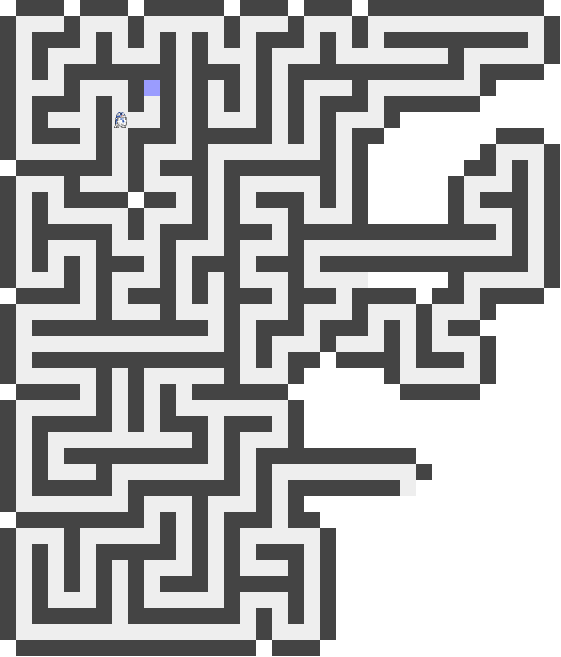
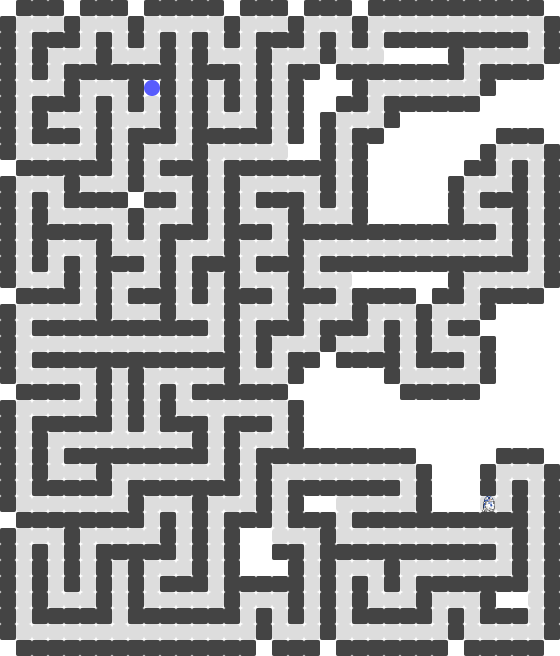
added autoplay to the maze game - day 15 of aoc 2019, updated screenshot

diff --git a/2019/day15/script.js b/2019/day15/script.js
@@ -1,9 +1,9 @@
-// Contains visuals and playable game of maze.
+// Contains visuals and a playable game of maze (set autoplay to false)
 
-let screen = [], root, timerHandle;
-let comp = new Computer();
-let size = 42, bot = {x:size/2,y:size/2};
-let colors = ['#fff', '#444', '#eee', '#99f']
+const frameDelay = 50, reverseMoves = [0, 2, 1, 4, 3], size = 42;
+let screen = [], root, actionLog = [], unresolvedPoints = [], autoplay = true,
+    comp = new Computer(), bot = {x:size/2,y:size/2}, botStart = {x:size/2,y:size/2},
+    ox = false, oxDm = false, oxTicks = 1;
 
 const prepareScreen = () => {
     root.empty();
@@ -15,7 +15,6 @@ const prepareScreen = () => {
             let div = $('<div>', {
                 id: 'tile_'+y*42+x,
                 css: {
-                    backgroundColor: colors[tileId],
                     left: x*16+'px',
                     top: y*16+'px',
                 }
@@ -27,32 +26,14 @@ const prepareScreen = () => {
     }
 }
 
-const exportScreen = () => {
-    let s = '';
-    let chars = ['#', '#', '.', 'O']
-    for (let y = 0; y < size; y++) {
-        let line = '';
-        for (let x = 0; x <= size; x++) {
-            let tileId = screen[y][x] || 0;
-            let char = chars[tileId];
-            if (x == bot.x && y == bot.y) {
-                char = '@';
-            }
-            line += char;
-        }
-        s += '"'+line + "\",\n";
-    }
-    console.log('['+s+']');
-}
+const getTileDivId = (x, y) => '#tile_'+y*42+x;
 
 const renderScreen = () => {
-    $('.tile').removeClass('bot');
     for (let y = 0; y < size; y++) {
-        let line = '';
         for (let x = 0; x <= size; x++) {
             let tileId = screen[y][x] || 0;
-            let div = $('#tile_'+y*42+x);
-            div.css('background-color', colors[tileId]);
+            let div = $(getTileDivId(x, y));
+            div.addClass('type_'+tileId);
             if (x == bot.x && y == bot.y) {
                 div.addClass('bot');
             }
@@ -68,48 +49,157 @@ const getPos = tileId => {
     }
 }
 
-const advanceWithCallback = (actionId, callback) => {
-    let result = comp.run([actionId]);
-
-    let x = bot.x, y = bot.y;
+const advanceByActionId = (p, actionId) => {
+    let x = p.x, y = p.y;
     if (actionId == 1) y--;
     if (actionId == 2) y++;
     if (actionId == 3) x--;
     if (actionId == 4) x++;
+    return {x: x, y: y};
+}
+
+const solvePart1 = () => {
+    let dm = generateDistanceMap(ox);
+    console.log('Steps from start to oxygen station', dm[botStart.y][botStart.x]);
+}
+
+const advanceWithCallback = (actionId, callback, markEmpty = true) => {
+    let result = comp.run([actionId]);
+    let p = advanceByActionId(bot, actionId);
 
     if (result.output[0] == 0) {
-        screen[y][x] = 1; // wall
+        screen[p.y][p.x] = 1; // wall
     }
     if (result.output[0] == 1) {
-        screen[y][x] = 2; // empty space
+        if (markEmpty) screen[p.y][p.x] = 2; // empty space
     }
     if (result.output[0] == 2) {
-        screen[y][x] = 3; // oxygen station
-        console.log('Found Oxygen Station!');
+        if (!ox) {
+            screen[p.y][p.x] = 3; // oxygen station
+            ox = p;
+            solvePart1();
+        }
     }
-    callback(result.output, x, y);
+    callback(result.output[0], p.x, p.y);
 }
 
 const thereAndBack = (actionId, backActionId) => {
+    let res;
     advanceWithCallback(actionId, (out, x, y) => {
-        if (out != 0) {
-            comp.run([backActionId]);
+        if (out != 0) comp.run([backActionId]);
+        res = out;
+    }, false)
+    return res;
+}
+
+const delayedGameTick = actionId => setTimeout(() => gameTick(actionId), frameDelay);
+const getScreenPoint = p => screen[p.y][p.x] || 0;
+
+const reduceUnresolvedPoints = (x, y) => {
+    let found = false;
+    unresolvedPoints.some((p, i) => {
+        if (unresolvedPoints[i].x == x && unresolvedPoints[i].y == y) {
+            found = i;
+            return true;
         }
     })
+    if (found) unresolvedPoints.splice(found, 1);
+}
+
+const canMoveTo = p => getScreenPoint(p) != 1;
+
+const spread = (distanceMap, x, y, dist) => {
+    if (!distanceMap[y]) distanceMap[y] = [];
+    if (!(distanceMap[y][x]) || (distanceMap[y][x] > dist)) {
+        distanceMap[y][x] = dist;
+        if (getScreenPoint({x:x, y:y}) == 0 && dist > 0) return;
+        if (canMoveTo({x: x-1, y: y})) spread(distanceMap, x-1,y,dist+1);
+        if (canMoveTo({x: x+1, y: y})) spread(distanceMap, x+1,y,dist+1);
+        if (canMoveTo({x: x, y: y-1})) spread(distanceMap, x,y-1,dist+1);
+        if (canMoveTo({x: x, y: y+1})) spread(distanceMap, x,y+1,dist+1);
+    }
+}
+
+const generateDistanceMap = start => {
+    let dm = [];
+    spread(dm, start.x, start.y, 0);
+    return dm;
+}
+
+const scan = () => {
+    let movePossible = [];
+    for (let move = 1; move < reverseMoves.length; move++) movePossible[move] = thereAndBack(move, reverseMoves[move]);
+    return movePossible;
 }
 
 const gameTick = actionId => {
+    scan();
+
+    $(getTileDivId(bot.x, bot.y)).removeClass('bot');
     advanceWithCallback(actionId, (out, x, y) => {
         if (out != 0) {
-            bot.x = x;bot.y = y;
+            bot.x = x; bot.y = y;
+            actionLog.push(actionId);
+            reduceUnresolvedPoints(x, y);
         }
     })
 
-    // scan around a bit
-    thereAndBack(1, 2); thereAndBack(2, 1);
-    thereAndBack(3, 4); thereAndBack(4, 3);
+    let movePossible = scan(), nextMoves = [], advance = false;
+    for (let move = 1; move < reverseMoves.length; move++) if (movePossible[move] && reverseMoves[move] != actionLog[actionLog.length-1]) nextMoves.push(move);
+
+    if (autoplay) {
+        if (nextMoves.length == 0) {
+            delayedGameTick(reverseMoves[actionLog[actionLog.length-1]]);
+            advance = true;
+        } else if (nextMoves.length == 1) {
+            delayedGameTick(nextMoves[0]);
+            advance = true;
+        } else if (nextMoves.length == 2) {
+            let blanks = nextMoves.filter(move => getScreenPoint(advanceByActionId(bot, move)) == 0);
+            if (blanks.length >= 1) {
+                delayedGameTick(blanks[0]);
+                advance = true;
+                if (blanks.length > 1) unresolvedPoints.push(advanceByActionId(bot, blanks[1]));
+            } else {
+                if (unresolvedPoints.length > 0) {
+                    // generate distanceMap from last unresolved point, pick direction to it
+                    let dm = generateDistanceMap(unresolvedPoints[unresolvedPoints.length-1]);
+                    nextMoves.some(move => {
+                        let p = advanceByActionId(bot, move);
+                        if (dm[p.y][p.x] < dm[bot.y][bot.x]) {
+                            delayedGameTick(move);
+                            advance = true;
+                            return true;
+                        }
+                    })
+                }
+            }
+        }
+
+        if (!advance && !oxDm) {
+            oxDm = generateDistanceMap(ox), distances = [];
+            for (let y=0;y<size;y++) {
+                for (let x=0;x<size;x++) if (oxDm[y] && oxDm[y][x]) distances.push(oxDm[y][x]);
+            }
+            oxMaxDistance = Math.max(...distances);
+            console.log('Minutes needed for oxygen to fully spread', Math.max(...distances));
+            oxTick();
+        }
+    }
 
     renderScreen();
+}
+
+const oxTick = () => {
+    for (let y=0;y<size;y++) {
+        for (let x=0;x<size;x++) {
+            if (x == ox.x && y == ox.y) continue;
+            if (oxDm[y] && oxDm[y][x] && oxDm[y][x] === oxTicks) screen[y][x] = 4;
+        }
+    }
+    renderScreen();
+    if (oxTicks < oxMaxDistance) setTimeout(oxTick, frameDelay);
+    oxTicks++;
 }
 
 const initGame = () => {
@@ -129,102 +219,20 @@ const initGame = () => {
 
     let lastTick = 0;
 
-    $(document).keydown(function(e) {
-        if (new Date().getTime() - lastTick < 20) return;
-        if (keyMap[e.key] !== undefined) {
-            lastTick = new Date().getTime();
-            gameTick(keyMap[e.key]);
-        }
-    });
-
     prepareScreen();
     renderScreen();
-}
 
-initGame(); // play game, export via exportScreen() once completed
-
-let mapInput = [
-'#########################################',
-'#...#...#.....#...#...#...........#.....#',
-'#.###.#.#.#.#.#.###.#.#.#########.#.#####',
-'#.#...#...#.#...#...#.......#.....#.....#',
-'#.#.#######.###.#.###########.#####.###.#',
-'#...#...#O#.#.#.#.#...#.......#.....#...#',
-'#.###.#.#.#.#.#.#.#.###.#######.#####.#.#',
-'#.#...#..@#.#...#.#.#...#.........#...#.#',
-'#.###.#.###.#####.#.#.###.#########.###.#',
-'#.....#.#...#.......#.#.#.#...#...#.#...#',
-'#######.#.###.#######.#.#.#.###.#.#.#.###',
-'#...#...#...#.#.....#.#...#.#...#.#.#.#.#',
-'#.#.#######.#.#.###.#.#.###.#.###.#.#.#.#',
-'#.#.....#...#.#...#...#.....#...#.#.#...#',
-'#.#####.#.###.###.#############.#.#.#####',
-'#.#...#...#...#...#.............#.#.....#',
-'#.#.#.###.#.###.###.#############.#.###.#',
-'#...#.#...#.#.#...#.........#.....#.#...#',
-'#####.#.###.#.###.###.#######.#######.#.#',
-'#.....#...#...#...#...#...#...#.#.....#.#',
-'#.###########.#.###.###.#.#.###.#.#.###.#',
-'#.............#.#...#S..#.#...#...#.#...#',
-'#.#############.#.#######.###.#.###.#####',
-'#.....#.#.....#...#.....#.....#...#.....#',
-'#####.#.#.#.#########.###########.#####.#',
-'#.....#.#.#.......#...#.........#.....#.#',
-'#.#####.#.###.###.#.###.#.#####.#######.#',
-'#.#.........#.#...#.....#...#...........#',
-'#.#.#########.#.###########.###########.#',
-'#.#...#.......#.#.........#...#...#.....#',
-'#.#####.#######.#.#######.#.#.#.#.#.#####',
-'#.......#...#...#.#.......#.#...#.#.#...#',
-'#########.#.#.###.###.###########.#.###.#',
-'#...#.....#.#.#.....#...........#.#.....#',
-'#.#.#.#####.#.#.###.###########.#.#####.#',
-'#.#.#.#.#...#.#...#.#...#.......#.#...#.#',
-'#.#.#.#.#.###.#####.#.#.#.#######.#.#.#.#',
-'#.#...#.#.....#...#.#.#...#...#...#.#.#.#',
-'#.#####.#######.#.#.#.#####.#.###.#.#.#.#',
-'#...............#...#.......#.....#.#...#',
-'#########################################']
-
-let mapSize = mapInput.length, distanceMap = [], map = [], startX = 9, startY = 5;
-
-const part2 = () => {
-    for (let y = 0; y < mapSize; y++) {
-        distanceMap[y] = [];
-        map[y] = [];
-    }
-    mapInput.map((line, y) => {
-        for (let x = 0; x < line.length; x++) {
-            map[y][x] = line[x];
-        }
-    })
-    generateDistanceMap();
-}
-
-
-const spread = (x,y,dist) => {
-    if (!(distanceMap[y][x]) || (distanceMap[y][x] > dist)) {
-        distanceMap[y][x] = dist;
-        if (map[y][x-1] != '#') spread(x-1,y,dist+1);
-        if (map[y][x+1] != '#') spread(x+1,y,dist+1);
-        if (map[y-1][x] != '#') spread(x,y-1,dist+1);
-        if (map[y+1][x] != '#') spread(x,y+1,dist+1);
-    }
-}
-
-const generateDistanceMap = () => {
-    spread(startX, startY, 0);
-
-    let distances = [];
-
-    for (let y=0;y<mapSize;y++) {
-        for (let x=0;x<mapSize;x++) {
-            if (distanceMap[y][x]) {
-                distances.push(distanceMap[y][x]);
+    if (!autoplay) {
+        $(document).keydown(function(e) {
+            if (new Date().getTime() - lastTick < frameDelay) return;
+            if (keyMap[e.key] !== undefined) {
+                lastTick = new Date().getTime();
+                gameTick(keyMap[e.key]);
             }
-        }
+        });
     }
 
-    console.log('max distance', Math.max(...distances), distances);
+    gameTick(1);
 }
-part2();
+
+initGame();

diff --git a/2019/day15/index.html b/2019/day15/index.html
@@ -18,6 +18,25 @@
             height:16px;
             position: absolute;
         }
+        .type_0 {
+            background-color:#fff;
+        }
+        .type_1 {
+            border-radius:2px;
+            background-color:#444;
+        }
+        .type_2 {
+            border-radius:4px;
+            background-color:#ddd;
+        }
+        .type_3 {
+            border-radius:8px;
+            background-color:#55f;
+        }
+        .type_4 {
+            border-radius:0px;
+            background-color:#bbf;
+        }
     </style>
 </head>
 <body>
